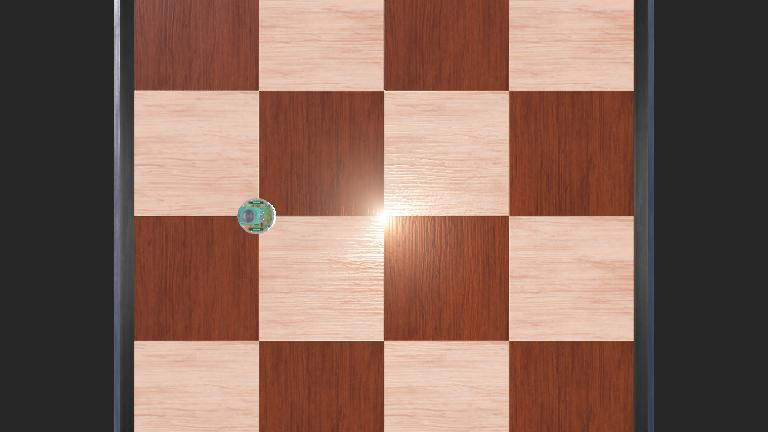
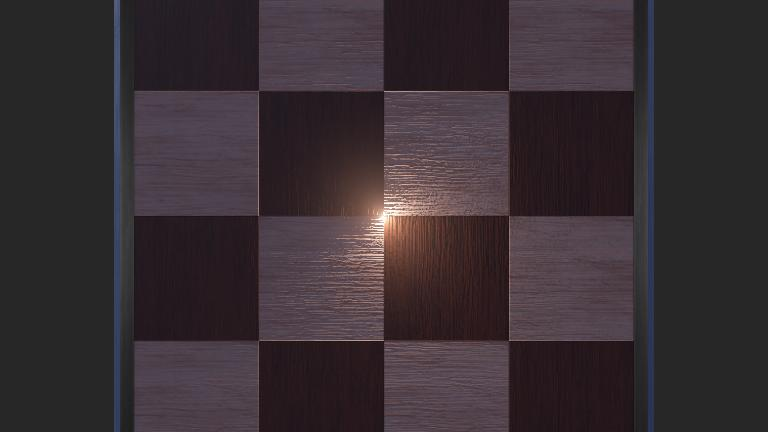
add one epuck

diff --git a/learning_webots/controllers/in_class_light_follow/in_class_light_follow.py b/learning_webots/controllers/in_class_light_follow/in_class_light_follow.py
@@ -1,5 +1,6 @@
 from controller import Robot
 from math import atan2, sqrt, sin, cos
+import numpy as np
 robot = Robot()
 timestep = int(robot.getBasicTimeStep())
 
@@ -25,18 +26,24 @@ motor_left.setVelocity(0)
 motor_right.setVelocity(0)
 while robot.step(timestep) != -1:
     light_values = [sensor.getValue() for sensor in light_sensors]
-    # print("Light sensor values:", end=' ')
-    # for i, value in enumerate(light_values):
-    #     print(f"ls{i}: {value:.2f}", end=' ')
-    # print()  # Print a newline after all light sensor values
-    group_left = light_values[4] + light_values[5] + light_values[6] + light_values[7]
-    group_right = light_values[0] + light_values[1] + light_values[2] + light_values[3]
-    if (group_left - group_right) > 5:
+    reference_light_value = (light_values[0] + light_values[7])/2
+    THRESHOLD = np.mean(light_values) * 0.05
+    left_avg = sum(light_values[4:7]) / 4
+    right_avg = sum(light_values[1:4]) / 4
+    print("Light values:", light_values)
+    print("Reference light value:", reference_light_value, "Left average:", left_avg, "Right average:", right_avg)
+    if (left_avg - reference_light_value) > THRESHOLD and (right_avg - reference_light_value) > THRESHOLD:
         motor_left.setVelocity(3)
-        motor_right.setVelocity(1)
-    elif (group_right - group_left) > 5:
-        motor_left.setVelocity(1)
         motor_right.setVelocity(3)
+        print("Moving forward")
     else:
-        motor_left.setVelocity(3)
-        motor_right.setVelocity(3)
+        if left_avg - reference_light_value < THRESHOLD:
+            motor_left.setVelocity(-3)
+            motor_right.setVelocity(3)
+            robot.step(10*timestep)
+            print("Turning left")
+        else:
+            motor_left.setVelocity(3)
+            motor_right.setVelocity(-3)
+            robot.step(10*timestep)
+            print("Turning right")

diff --git a/learning_webots/controllers/SV_inclass/SV_inclass.py b/learning_webots/controllers/SV_inclass/SV_inclass.py
@@ -1,0 +1,9 @@
+from controller import Supervisor
+
+supervisor = Supervisor()
+step = int(supervisor.getBasicTimeStep())
+
+# add E-puck by string
+epuck_string = "DEF EPUCK1 E-puck { name \"EPUCK1\" translation -0.1 0.1 0.01 rotation 0 0 1 1.14 controller \"in_class_light_follow\" }"
+# directly add the E-puck to the scene
+supervisor.getRoot().getField("children").importMFNodeFromString(-1, epuck_string)